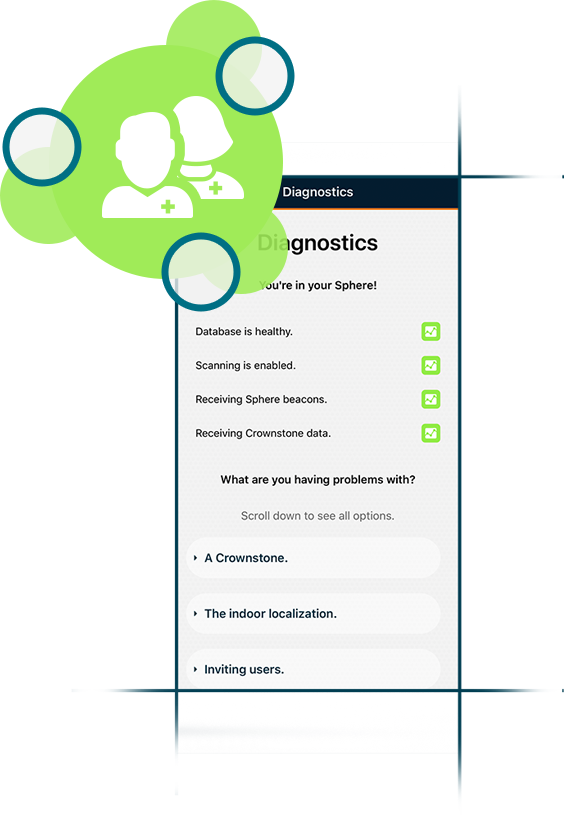
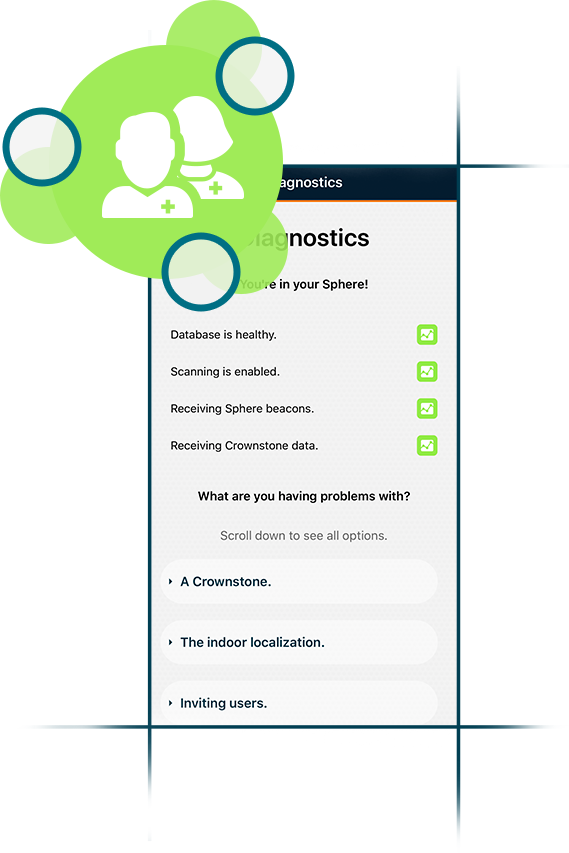
Added whats new, tweaked Toon styles, added clearMostEvents method to eventBus, fixed room image

diff --git a/js/views/thirdParty/toon/ToonAdd.tsx b/js/views/thirdParty/toon/ToonAdd.tsx
@@ -230,13 +230,27 @@ export class ToonAdd extends Component<any, any> {
     }
   }
 
+  _getDisclaimer() {
+      if (!this.state.success && !this.state.processing && !this.state.failed) {
+       return (
+         <Text style={{
+           textAlign: 'center',
+           fontSize: 12,
+           color: colors.black.rgba(0.6),
+           paddingTop: 10
+         }} >{"This application uses the Toon API, follows the guiding principles for using the Toon API, but has not been developed by Toon."}
+         </Text>
+       )
+      }
+    }
+
   render() {
     let content;
     if (this.state.manualCodeInput) {
       content = (
         <View style={{flex:1, alignItems:'center', padding: 20}}>
           <View style={{flex:1}} />
-          <ScaledImage source={require('../../../images/thirdParty/logo/toonLogo.png')} targetWidth={0.6*screenWidth} sourceWidth={1000} sourceHeight={237} />
+          <ScaledImage source={require('../../../images/thirdParty/logo/Works-with-Toon.png')} targetWidth={0.6*screenWidth} sourceWidth={535} sourceHeight={140} />
           <View style={{flex:0.75}} />
           <View style={{width: 250, height: 60, backgroundColor:"#fff", borderRadius:20, borderWidth: 2, borderColor: colors.gray.rgba(0.5), alignItems:'center', justifyContent:'center'}}>
             <TextEditInput
@@ -260,7 +274,7 @@ export class ToonAdd extends Component<any, any> {
       content = (
         <View style={{flex:1, alignItems:'center', padding: 20}}>
           <View style={{flex:1}} />
-          <ScaledImage source={require('../../../images/thirdParty/logo/toonLogo.png')} targetWidth={0.6*screenWidth} sourceWidth={1000} sourceHeight={237} />
+          <ScaledImage source={require('../../../images/thirdParty/logo/Works-with-Toon.png')} targetWidth={0.6*screenWidth} sourceWidth={535} sourceHeight={140} />
           { this.state.processing ?  <View style={{paddingTop:50, alignItems:'center', justifyContent:'center'}}><ActivityIndicator animating={true} size="large" /></View> : undefined}
           <View style={{flex:1}} />
           { this._getText() }
@@ -269,6 +283,7 @@ export class ToonAdd extends Component<any, any> {
 
           {!this.state.processing && !this.state.failed ? <View style={{flex:1}} /> : <View style={{flex:0.5}} /> }
           { this._getButton() }
+          { this._getDisclaimer() }
           <View style={{flex:0.5}} />
         </View>
       );

diff --git a/js/views/thirdParty/toon/ToonSettings.tsx b/js/views/thirdParty/toon/ToonSettings.tsx
@@ -155,9 +155,6 @@ export class ToonSettings extends Component<any, any> {
         below: true,
         label: "This will remove the Toon integration for all users in your Sphere."
       });
-
-      items.push({type: 'spacer'});
-
     }
     return items;
   }
@@ -180,7 +177,7 @@ export class ToonSettings extends Component<any, any> {
           <View style={{flex:1, width: screenWidth, minHeight: screenHeight, alignItems:'center' }}>
             <View style={{height:375, alignItems:'center'}}>
               <View style={{flex:1}} />
-              <ScaledImage source={require('../../../images/thirdParty/logo/toonLogo.png')} targetWidth={0.6*screenWidth} sourceWidth={1000} sourceHeight={237} />
+              <ScaledImage source={require('../../../images/thirdParty/logo/Works-with-Toon.png')} targetWidth={0.6*screenWidth} sourceWidth={535} sourceHeight={140} />
               <View style={{flex:1}} />
               <Text style={[textStyle, {fontWeight: '600', fontSize: 16}]}>{"Crownstone and Toon are connected!"}</Text>
               <View style={{flex:1}} />
@@ -192,7 +189,14 @@ export class ToonSettings extends Component<any, any> {
               <View style={{flex:0.2}} />
             </View>
             <ListEditableItems items={this._getItems(sphere)} separatorIndent={true} />
-            <View style={{flex:1}} />
+            <Text style={{
+              textAlign: 'center',
+              fontSize: 12,
+              color: colors.black.rgba(0.6),
+              padding:5
+            }} >{"This application uses the Toon API, follows the guiding principles for using the Toon API, but has not been developed by Toon."}
+            </Text>
+            <View style={{flex:1, minHeight:40}} />
           </View>
         </ScrollView>
       </Background>

diff --git a/js/views/overlays/WhatsNew/2.2.0/ToonIsNew.tsx b/js/views/overlays/WhatsNew/2.2.0/ToonIsNew.tsx
@@ -18,14 +18,14 @@ export class ToonIsNew extends Component<any, any> {
       <View style={{flex:1, paddingBottom:0, padding:10, alignItems:'center', justifyContent:'center'}}>
         <ScrollView style={{}}>
           <View style={WNStyles.innerScrollView}>
-            <Text style={WNStyles.text}>Integation with Toon!</Text>
+            <Text style={WNStyles.text}>Crownstone works with Toon</Text>
             <View style={{height:30}} />
-            <Image source={require('../../../../images/whatsNew/2.2.0/Toon.png')} style={{width:592*size, height:742*size}} />
+            <Image source={require('../../../../images/whatsNew/2.2.0/whatsNewToon.png')} style={{width:576*size, height:926*size}} />
             <View style={{height:30}} />
             <Text style={WNStyles.detail}>{
               "Sometimes, Toon is set to \"Away\" while you're still there...\n\n" +
               "...but Crownstone can set it to \"Home\" as long as you're home!\n\n" +
-              "Let this phone tell Toon when it's home!\n\n\n"
+              "Let your phone tell Toon when it's home!\n\n\n"
             }</Text>
           </View>
         </ScrollView>

diff --git a/js/views/overlays/WhatsNew/2.2.0/ActivityLog.tsx b/js/views/overlays/WhatsNew/2.2.0/ActivityLog.tsx
@@ -20,12 +20,12 @@ export class ActivityLog extends Component<any, any> {
           <View style={WNStyles.innerScrollView}>
             <Text style={WNStyles.text}>Activity Log!</Text>
             <View style={{height:30}} />
-            <Image source={require('../../../../images/whatsNew/2.2.0/activityLogs.png')} style={{width:560*size, height:744*size}} />
+            <Image source={require('../../../../images/whatsNew/2.2.0/activityLogs.png')} style={{width:602*size, height:968*size}} />
             <View style={{height:30}} />
             <Text style={WNStyles.detail}>{
               "Ever wonder why a Crownstone switched? Why is it on?\n\n" +
               "In the new Activity Log, you can see exactly why this is!\n\n" +
-              "You can find it in the Crownstone settings (by tapping on a Crownstone icon in a room) and navigating to the left.\n\n"
+              "You can find the new log in the Crownstone settings (by tapping on a Crownstone icon in a room) and navigating to the right.\n\n"
             }</Text>
           </View>
         </ScrollView>

diff --git a/js/views/roomViews/RoomOverview.tsx b/js/views/roomViews/RoomOverview.tsx
@@ -309,7 +309,6 @@ export class RoomOverview extends Component<any, any> {
     const sphere = state.spheres[this.props.sphereId];
     if (!sphere) { return <SphereDeleted/> }
     let location = null;
-    let roomCustomImage = null;
 
     let seeStoneInSetupMode = SetupStateHandler.areSetupStonesAvailable();
     let seeStoneInDfuMode = DfuStateHandler.areDfuStonesAvailable();
@@ -330,7 +329,7 @@ export class RoomOverview extends Component<any, any> {
       if (!location) { return <RoomDeleted /> }
 
       if (location.config.picture) {
-        // backgroundImage = <Image style={[styles.fullscreen, {resizeMode: 'cover'}]} source={{uri: preparePictureURI(location.config.picture)}} />;
+        backgroundImage = { uri: preparePictureURI(location.config.picture) };
       }
     }
 
@@ -362,7 +361,7 @@ export class RoomOverview extends Component<any, any> {
     }
 
     return (
-      <Background image={backgroundImage} topImage={roomCustomImage}>
+      <Background image={backgroundImage}>
         <OrangeLine/>
         <RoomBanner
           presentUsers={users}

diff --git a/js/views/overlays/WhatsNew/2.2.0/Diagnostics.tsx b/js/views/overlays/WhatsNew/2.2.0/Diagnostics.tsx
@@ -18,9 +18,9 @@ export class Diagnostics extends Component<any, any> {
       <View style={{flex:1, paddingBottom:0, padding:10, alignItems:'center', justifyContent:'center'}}>
         <ScrollView style={{}}>
           <View style={WNStyles.innerScrollView}>
-            <Text style={WNStyles.text}>Diagnostics</Text>
+            <Text style={WNStyles.text}>Crownstone Diagnostics</Text>
             <View style={{height:30}} />
-            <Image source={require('../../../../images/whatsNew/2.2.0/diagnostics.png')} style={{width:564*size, height:815*size}} />
+            <Image source={require('../../../../images/whatsNew/2.2.0/diagnostics.png')} style={{width:569*size, height:853*size}} />
             <View style={{height:30}} />
             <Text style={WNStyles.detail}>{
               "Sometimes, things don't seem to work as they should...\n\n" +

diff --git a/js/util/EventBus.ts b/js/util/EventBus.ts
@@ -2,6 +2,10 @@ import {LOG, LOGe, LOGi, LOGv} from '../logging/Log'
 import { Util } from './Util'
 
 
+const EXCLUDE_FROM_CLEAR = {
+  showLoading: true,
+}
+
 export class EventBusClass {
   _topics : object;
   _topicIds : object;
@@ -78,9 +82,23 @@ export class EventBusClass {
 
 
   clearAllEvents() {
-    LOG.event("Clearing all event listeners.");
+    LOG.info("EventBus: Clearing all event listeners.");
     this._topics = {};
     this._topicIds = {};
+  }
+
+
+  /**
+   * This will only be used at clearing the database.
+   */
+  clearMostEvents() {
+    LOG.info("EventBus: Clearing most event listeners.");
+    let topics = Object.keys(this._topics);
+    for (let i = 0; i < topics.length; i++) {
+      if (EXCLUDE_FROM_CLEAR[topics[i]] !== true) {
+        delete this._topics[topics[i]];
+      }
+    }
   }
 }
 

diff --git a/js/views/thirdParty/toon/ToonOverview.tsx b/js/views/thirdParty/toon/ToonOverview.tsx
@@ -113,7 +113,7 @@ export class ToonOverview extends Component<any, any> {
         <OrangeLine/>
         <View style={{flex:1, alignItems:'center'}}>
           <View style={{flex:1}} />
-          <ScaledImage source={require('../../../images/thirdParty/logo/toonLogo.png')} targetWidth={0.6*screenWidth} sourceWidth={1000} sourceHeight={237} />
+          <ScaledImage source={require('../../../images/thirdParty/logo/Works-with-Toon.png')} targetWidth={0.6*screenWidth} sourceWidth={535} sourceHeight={140} />
           <View style={{flex:1}} />
           <Text style={[deviceStyles.errorText,{color:colors.menuBackground.hex, paddingLeft: 15, paddingRight:15}]}>{"There are multiple Toon's on your account.\n\nPick one to configure it!"}</Text>
           <View style={{flex:1}} />

diff --git a/js/views/main/editSubviews/SphereIntegrations.tsx b/js/views/main/editSubviews/SphereIntegrations.tsx
@@ -33,9 +33,9 @@ export class SphereIntegrations extends Component<any, any> {
 
     items.push({label:'Thermostats:',  type:'largeExplanation'});
     items.push({
-      label: 'Toon®',
+      label: 'Toon',
       type: 'navigation',
-      largeIcon: <ScaledImage source={require('../../../images/thirdParty/logo/toonLogoSmall.png')} targetWidth={45} targetHeight={45} sourceWidth={500} sourceHeight={500} />,
+      largeIcon: <ScaledImage source={require('../../../images/thirdParty/logo/toonLogo.png')} targetWidth={65} targetHeight={45} sourceWidth={1000} sourceHeight={237}/>,
       callback: () => {
         let state = this.props.store.getState();
         let sphere = state.spheres[this.props.sphereId];

diff --git a/js/views/overlays/WhatsNew/2.2.0/MoveRooms.tsx b/js/views/overlays/WhatsNew/2.2.0/MoveRooms.tsx
@@ -18,7 +18,7 @@ export class MoveRooms extends Component<any, any> {
       <View style={{flex:1, paddingBottom:0, padding:10, alignItems:'center', justifyContent:'center'}}>
         <ScrollView style={{}}>
           <View style={WNStyles.innerScrollView}>
-            <Text style={WNStyles.text}>Customize where your rooms are!</Text>
+            <Text style={WNStyles.text}>Custom screen positions!</Text>
             <View style={{height:30}} />
             <Image source={require('../../../../images/whatsNew/2.2.0/roomPositions.png')} style={{width:560*size, height:744*size}} />
             <View style={{height:30}} />

diff --git a/js/views/overlays/WhatsNew/2.2.0/NewSphereSettings.tsx b/js/views/overlays/WhatsNew/2.2.0/NewSphereSettings.tsx
@@ -23,7 +23,7 @@ export class NewSphereSettings extends Component<any, any> {
             <Image source={require('../../../../images/whatsNew/2.2.0/newSphereMenu.png')} style={{width:602*size, height:968*size}} />
             <View style={{height:30}} />
             <Text style={WNStyles.detail}>{
-              "Press Edit in the top left corner of the Sphere overview, to customize your Sphere!\n\n"
+              "Press Edit in the top right corner of the Sphere overview and customize your Sphere!\n\n"
             }</Text>
           </View>
         </ScrollView>

diff --git a/js/views/main/SphereOverview.tsx b/js/views/main/SphereOverview.tsx
@@ -168,7 +168,10 @@ export class SphereOverview extends Component<any, any> {
       activeSphere = null;
     }
     if (activeSphere === null && sphereIds.length > 0) {
-      if (updateStore) {
+      if (sphereIds.length === 1) {
+        this.props.store.dispatch({type: "SET_ACTIVE_SPHERE", data: {activeSphere: sphereIds[0]}});
+      }
+      else if (updateStore) {
         let presentSphereId = Util.data.getPresentSphereId(state);
         if (!presentSphereId) {
           this.props.store.dispatch({type: "SET_ACTIVE_SPHERE", data: {activeSphere: null}});
